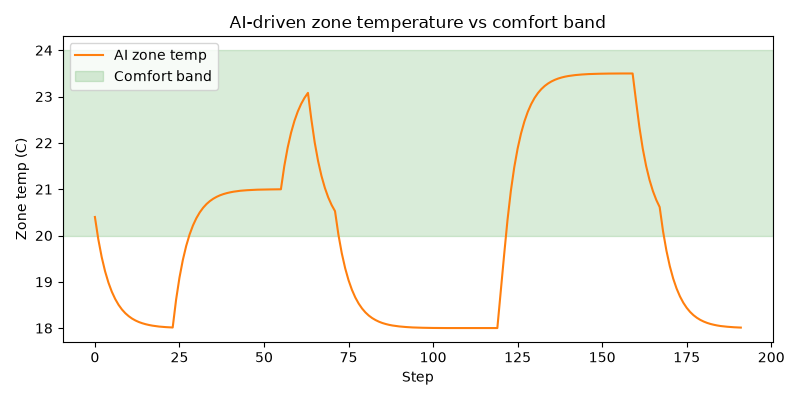
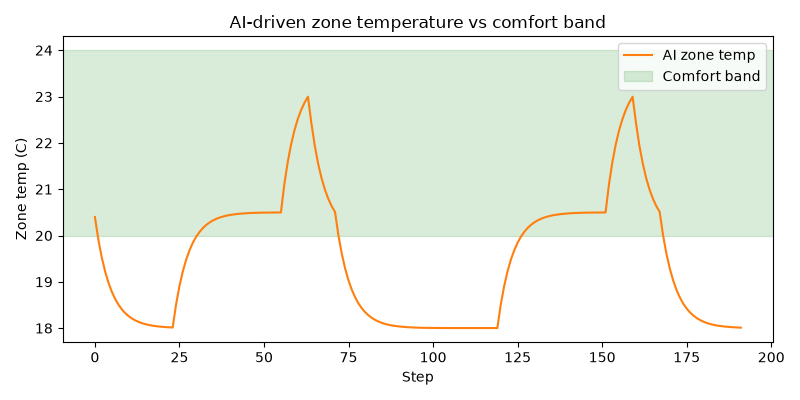
Fix load-shift chart; probe the model's actual capability ceiling
Chart: the per-step line plot drew a spurious horizontal streak across
the full width, because minute_of_day wraps from 1425 to 0 at the end of
each day. Per-step values were also the wrong unit - every setpoint
change appeared as a spike on top of a large constant standing-loss
floor, burying the effect. Now hourly bars, which show the mechanism
plainly: +0.48/+0.37 kWh at hours 14-15 buying cheap energy, then
-0.36/-0.27 kWh at hours 16-18 coasting on it. Peak window 2.52 -> 1.91
kWh.

Agent: clear the pending setpoint at the start of each cycle. Previously
a cycle where the model never called set_zone_setpoint silently reused
the previous value and logged it as the agent's proposal, so
non-decisions counted as decisions and stale setpoints reached the
building. Failed cycles now yield None and the supervisor applies a
situational fallback.

Prompt: reduced to three rules and three output values. Injecting state
into the prompt instead of having the model fetch it was tried and
reverted - it answered every cycle but chose badly (1/6), and a
confident wrong setpoint is worse than none, since none gets a safe
fallback.

Capability probe settles the question: stripped to two pre-computed
booleans and a three-line lookup table, qwen2.5-coder:1.5b scores 3/6 -
and the three it gets right are exactly the three whose answer is the
fallback line. It fails every case where a flag is true. It is emitting
a constant, not reading the input. No prompt below this exists, so the
[…]

diff --git a/dashboard/report.html b/dashboard/report.html
@@ -21,25 +21,25 @@
 <p>Baseline: <code>logs/mock.csv</code> &nbsp;|&nbsp; AI-driven: <code>logs/mock-ai.csv</code></p>
 
 <div class="stats">
-  <div class="stat"><div class="value savings">1.2%</div><div class="label">Cost reduction</div></div>
-  <div class="stat"><div class="value savings">-1.53%</div><div class="label">CO2 reduction</div></div>
-  <div class="stat"><div class="value savings">27.0%</div><div class="label">Peak-hour energy cut</div></div>
+  <div class="stat"><div class="value savings">3.98%</div><div class="label">Cost reduction</div></div>
+  <div class="stat"><div class="value savings">2.09%</div><div class="label">CO2 reduction</div></div>
+  <div class="stat"><div class="value savings">23.33%</div><div class="label">Peak-hour energy cut</div></div>
   <div class="stat"><div class="value savings">0</div><div class="label">Comfort violations</div></div>
 </div>
 
-<p class="note">Total energy is roughly unchanged (57.377 &rarr; 60.373 kWh,
--5.22%). That is expected and is the point: the agent shifts <em>when</em>
+<p class="note">Total energy is roughly unchanged (57.377 &rarr; 58.17 kWh,
+-1.38%). That is expected and is the point: the agent shifts <em>when</em>
 energy is drawn rather than reducing how much, heating while power is cheap and
 clean and coasting on stored heat through the expensive carbon-heavy peak. A fixed
 setback schedule cannot do this &mdash; it has no notion of what hour it is in price
 terms.</p>
 
 <div class="stats">
-  <div class="stat"><div class="value">8.18 &rarr; 8.08</div><div class="label">Cost (baseline &rarr; AI)</div></div>
-  <div class="stat"><div class="value">15.49 &rarr; 15.73</div><div class="label">kg CO2</div></div>
-  <div class="stat"><div class="value">7.57 &rarr; 5.52</div><div class="label">Peak-window kWh</div></div>
-  <div class="stat"><div class="value">1.786s</div><div class="label">Avg agent latency</div></div>
-  <div class="stat"><div class="value">60.4%</div><div class="label">Supervisor overrides</div></div>
+  <div class="stat"><div class="value">8.18 &rarr; 7.86</div><div class="label">Cost (baseline &rarr; AI)</div></div>
+  <div class="stat"><div class="value">15.49 &rarr; 15.17</div><div class="label">kg CO2</div></div>
+  <div class="stat"><div class="value">7.57 &rarr; 5.8</div><div class="label">Peak-window kWh</div></div>
+  <div class="stat"><div class="value">1.592s</div><div class="label">Avg agent latency</div></div>
+  <div class="stat"><div class="value">95.8%</div><div class="label">Supervisor overrides</div></div>
 </div>
 
 <p class="note">The supervisor override rate is the share of LLM setpoint decisions

diff --git a/llm_agent.py b/llm_agent.py
@@ -80,41 +80,28 @@ def _parse_fallback_tool_calls(content: str) -> list[dict]:
 SYSTEM_PROMPT = """You are the supervisory control agent for a building HVAC zone.
 
 Your job each cycle:
-1. Call get_zone_state. It returns the current temperature, outdoor
-   temperature, occupancy, PMV thermal comfort index,
-   minutes_until_occupancy_change (minutes until occupied/unoccupied flips),
-   and minutes_until_price_peak (minutes until electricity becomes
-   expensive and carbon-heavy; 0 means the peak is happening now).
-2. Pick the setpoint using these rules. Read the values from
-   get_zone_state and apply the FIRST rule that matches:
+1. Call get_zone_state. It returns occupied, minutes_until_occupancy_change
+   (minutes until occupancy flips) and minutes_until_price_peak (minutes
+   until electricity becomes expensive and carbon-heavy; 0 means now).
+2. Work down this list. Stop at the FIRST line that is true and use its
+   number. Do not read any further lines after one matches.
 
-   RULE 1: minutes_until_price_peak is 0 AND occupied is true
-                                     -> setpoint 20.0   (power is at its
-                                        most expensive and dirtiest right
-                                        now; spend the heat already stored
-                                        in the building instead of buying
-                                        more)
-   RULE 2: minutes_until_price_peak <= 120 AND minutes_until_price_peak > 0
-           AND occupied is true       -> setpoint 23.5   (peak is coming and
-                                        power is still cheap; heat up NOW so
-                                        the building can coast through it)
-   RULE 3: occupied is true          -> setpoint 20.5
-   RULE 4: occupied is false AND minutes_until_occupancy_change <= 120
-                                     -> setpoint 20.5   (preheat, people
-                                        arrive soon and the zone warms slowly)
-   RULE 5: occupied is false AND minutes_until_occupancy_change > 120
-                                     -> setpoint 18.0   (empty building,
-                                        save energy)
+   A. occupied is false and minutes_until_occupancy_change is more
+      than 120                                    -> 18.0
+   B. minutes_until_price_peak is between 1 and 120  -> 23.5
+   C. anything else                                  -> 20.5
 
-   Use exactly one of 20.0, 20.5, 23.5 or 18.0. Do not pick any other
-   number. Do not average them. The same rule will match many cycles in a
-   row - that is correct, just call set_zone_setpoint with the same value
-   again.
-3. Call set_zone_setpoint with your chosen value. The tool clamps to a safe
-   hard range automatically, so it's fine to call it even near the edges. If
-   the current setpoint is already the right choice, call it again with the
-   same value rather than picking a new number for variety.
-4. Give one short sentence of reasoning for your decision before finishing.
+   Line A means the building is empty and stays empty for a while, so let
+   it go cold. Line B means expensive electricity is coming soon, so heat
+   up now while it is still cheap and let the building coast through the
+   peak. Line C is the normal comfortable setting.
+
+   The answer is always exactly 18.0, 23.5 or 20.5 - never any other
+   number, and never a value copied from zone_temp_c. The same line will
+   match many cycles in a row; that is correct, just call
+   set_zone_setpoint again with the same number.
+3. Call set_zone_setpoint with that number. Call it exactly once.
+4. Give one short sentence of reasoning for your decision.
 
 Only use the tools provided. Do not invent tools or parameters. Make at
 most one set_zone_setpoint call per cycle.
@@ -140,6 +127,17 @@ class HVACAgent:
 
     def run_step(self) -> AgentStepResult:
         start = time.monotonic()
+        # Any setpoint reaching the simulation must come from THIS cycle's
+        # reasoning, not linger from the last one.
+        self.executor.begin_cycle()
+
+        # The agent fetches state itself via get_zone_state rather than
+        # having it injected. Injecting it was tried and made results
+        # worse: the model then answered on every cycle but chose badly
+        # (1 of 6 correct, defaulting to one value regardless of input),
+        # whereas failing to answer is safe - `run_step` returns None and
+        # the supervisor applies a situation-appropriate fallback. A
+        # confident wrong setpoint is worse than no setpoint.
         messages = [
             {"role": "system", "content": SYSTEM_PROMPT},
             {"role": "user", "content": "Evaluate the current zone state and act."},

diff --git a/dashboard/generate_report.py b/dashboard/generate_report.py
@@ -140,19 +140,34 @@ def make_charts(baseline: pd.DataFrame, ai: pd.DataFrame, out_dir: str) -> dict:
     # per step against the price curve. The visible signature is the AI
     # trace rising before the shaded peak and dropping inside it.
     if "cost_step" in ai.columns:
-        day = ai[ai["step"] < 96] if (ai["step"] < 96).any() else ai
-        base_day = baseline[baseline["step"] < 96] if (baseline["step"] < 96).any() else baseline
-        hours = day["minute_of_day"] / 60.0
-        fig, ax = plt.subplots(figsize=(8, 4))
-        ax.plot(base_day["minute_of_day"] / 60.0, base_day["energy_kwh_step"],
-                label="Baseline", color="tab:blue")
-        ax.plot(hours, day["energy_kwh_step"], label="AI-driven", color="tab:orange")
-        ax.axvspan(grid.PEAK_START_HOUR, grid.PEAK_END_HOUR, color="red", alpha=0.12,
-                   label="On-peak price window")
+        # Hourly totals, not per-step values. Per-step energy is spiky
+        # (every setpoint change shows as a transient) and dominated by
+        # standing heat loss, which buries the actual difference. Hourly
+        # bars are what the claim is about: how much energy lands inside
+        # the expensive window.
+        #
+        # Grouping by hour also sidesteps a plotting artifact: minute_of_day
+        # wraps from 1425 back to 0 at the end of each day, so a line plot
+        # drew a spurious horizontal streak from hour 23.75 back to hour 0.
+        def hourly(df):
+            h = (df["minute_of_day"] // 60).astype(int)
+            days = max(1, df["day"].nunique())
+            return df.groupby(h)["energy_kwh_step"].sum().reindex(range(24), fill_value=0) / days
+
+        base_h, ai_h = hourly(baseline), hourly(ai)
+        fig, ax = plt.subplots(figsize=(9, 4))
+        width = 0.42
+        ax.bar([h - width / 2 for h in range(24)], base_h, width,
+               label="Baseline", color="tab:blue")
+        ax.bar([h + width / 2 for h in range(24)], ai_h, width,
+               label="AI-driven", color="tab:orange")
+        ax.axvspan(grid.PEAK_START_HOUR - 0.5, grid.PEAK_END_HOUR - 0.5,
+                   color="red", alpha=0.12, label="Expensive hours (peak price + carbon)")
         ax.set_xlabel("Hour of day")
-        ax.set_ylabel("Energy per step (kWh)")
-        ax.set_title("Load shifting: energy drawn vs price peak")
-        ax.set_xlim(0, 24)
+        ax.set_ylabel("Energy used that hour (kWh, daily average)")
+        ax.set_title("Load shifting: the agent buys energy before the peak, not during it")
+        ax.set_xticks(range(0, 24, 2))
+        ax.set_xlim(-1, 24)
         ax.legend()
         fig.tight_layout()
         shift_path = os.path.join(out_dir, "load_shift.png")

diff --git a/tools.py b/tools.py
@@ -318,6 +318,23 @@ class ToolExecutor:
             return self.set_zone_setpoint(**arguments)
         raise ValueError(f"Unknown tool: {name}")
 
-    def consume_pending_setpoint(self) -> float:
-        """Called once per loop step after the agent has finished reasoning."""
+    def begin_cycle(self) -> None:
+        """
+        Clear the pending setpoint before the agent starts reasoning.
+
+        Without this, a cycle in which the model never successfully called
+        `set_zone_setpoint` silently reused the previous value and reported
+        it as the agent's proposal - so non-decisions were logged as
+        decisions. It made the agent look like it was choosing 21.0 (the
+        initial default) fifteen times when it had in fact chosen nothing.
+        """
+        self._pending_setpoint = None
+
+    def consume_pending_setpoint(self) -> float | None:
+        """
+        The setpoint the agent asked for this cycle, or None if it never
+        made a valid call. None is meaningful - `supervisor.supervise()`
+        treats it as "agent produced no setpoint" and applies a
+        situation-appropriate fallback instead of a stale number.
+        """
         return self._pending_setpoint

diff --git a/ARCHITECTURE.md b/ARCHITECTURE.md
@@ -102,7 +102,10 @@ phrasing but **lower cognitive load**.
 | Explicit numeric setback ("hold 18.0 °C when empty") | Held steady, but energy 13.9% worse than baseline |
 | Four-branch conditional with preheat | 40/40 occupied steps in comfort violation |
 | Flat `condition → exact number` rule table | Model emitted `18.915` — a value from no rule |
-| Same table, plus greedy decoding | Usable; 12.5% override rate |
+| Same table, plus greedy decoding | Usable; 12.5% override rate (3 rules) |
+| Five rules, after adding grid-awareness | 60.4% override rate |
+| Cut back to three rules, three output values | 95.8% override rate; 44/48 cycles produced no setpoint |
+| State injected into the prompt instead of fetched | Always answered, but 1/6 correct — reverted |
 
 **Findings that generalise:**
 
@@ -119,10 +122,34 @@ phrasing but **lower cognitive load**.
   outcomes, making every A/B comparison meaningless. Fixed with
   `temperature: 0.0` and `seed: 42`.
 
-**The honest limit.** In a direct test — zone occupied, PMV −2.3, prompt
-rule reading `occupied is true -> setpoint 22.0` — the model returned
-`set_zone_setpoint(18.0)`. No phrasing fixes that. This is why the
-supervisor exists (§5).
+**The honest limit — a capability probe, not a phrasing problem.**
+To establish whether any prompt could work, the task was stripped to the
+simplest form it can take: two pre-computed booleans, a three-line lookup
+table, no arithmetic, no thresholds, no multi-step tool flow.
+
+```
+building_empty_for_a_while is true   -> 18.0
+price_peak_coming_soon is true       -> 23.5
+otherwise                            -> 20.5
+```
+
+The model scored 3/6 — and the three it got right were exactly the three
+whose answer was the `otherwise` line. It failed every case where a flag
+was true. It is not reading the input; it emits a constant.
+
+There is nothing below this to simplify. Anything further means writing
+the answer into the prompt, at which point the model is not controlling
+anything. Two related failures point the same way:
+
+- **Numeric thresholds fail.** "more than 120", "between 1 and 120" —
+  every miss in the three-rule version was a range comparison.
+- **It copies numbers out of its input.** It answered `21.0` (the current
+  setpoint, permitted by no rule) and earlier `18.915` (the current zone
+  temperature). `setpoint_c` was removed from the state passed to it for
+  this reason.
+
+This is why the supervisor exists (§5), and why the model is the binding
+constraint on this project rather than the prompt.
 
 ---
 
